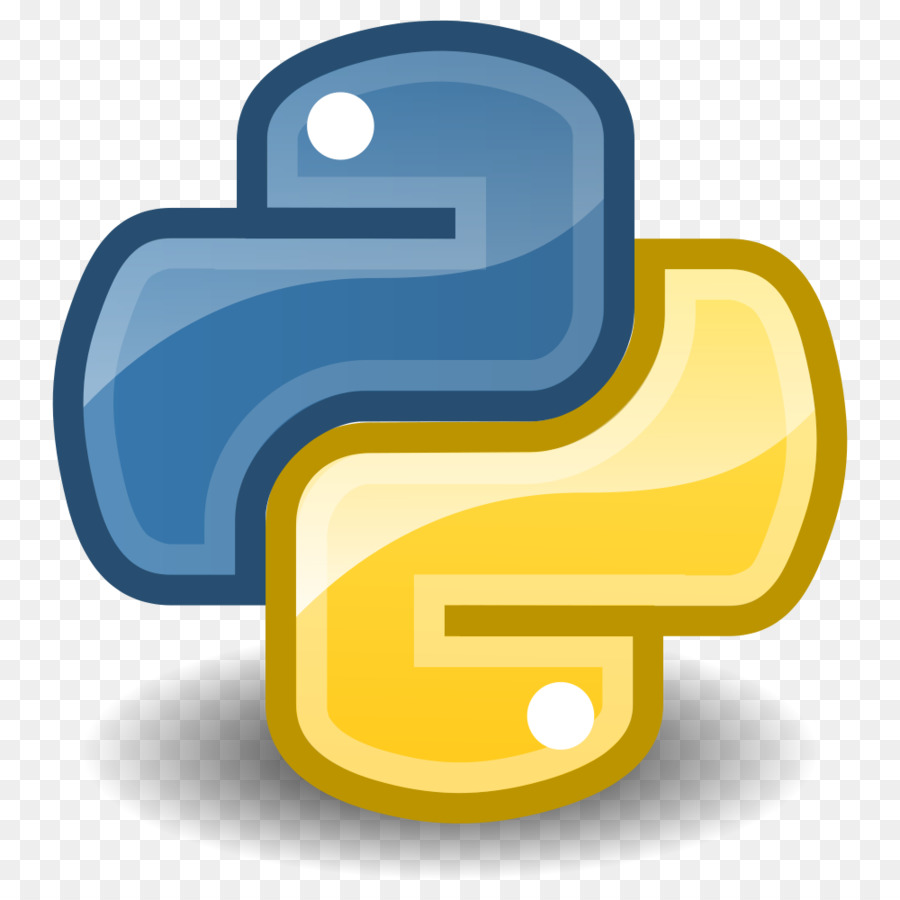
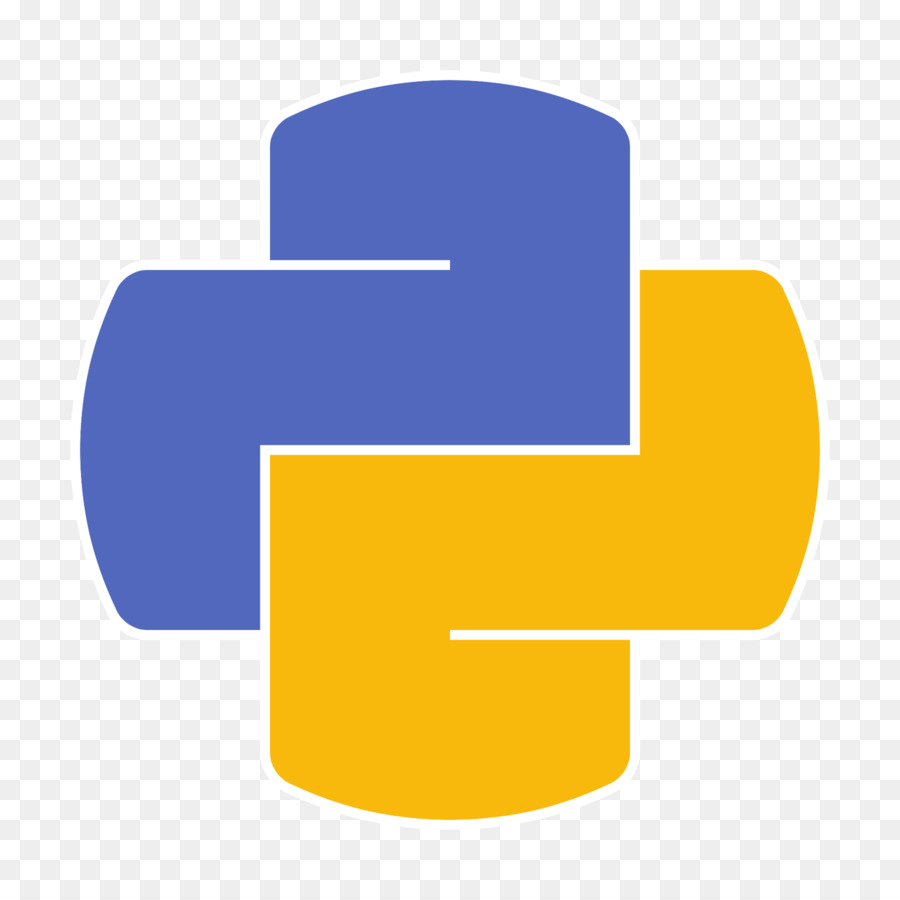
python skills edit

diff --git a/src/assets/index.js b/src/assets/index.js
@@ -18,7 +18,7 @@ import mysql from "./tech/mysql.png";
 import linux from "./tech/linux.png";
 import tailwind from "./tech/tailwind.png";
 import aws from "./tech/aws.png";
-import python from "./tech/python.jpg"
+import python from "./tech/python.png"
 import cplusplus from "./tech/c++.svg"
 import typescript from "./tech/typescript.png"
 import node_js from "./tech/node_js.svg"
@@ -32,6 +32,7 @@ import mackenziehealth from "./company/mackenziehealth.png"
 import privcurity from "./company/privcurity.jpg"
 import google from "./company/google.png"
 import freecodecamp from "./company/freecodecamp.png"
+import whmis from "./company/whmis.png"
 
 import nextinnovation from "./company/nextinnovation.jpeg";
 import cognizant from "./company/cognizant.png";
@@ -74,6 +75,7 @@ export {
   privcurity,
   google,
   freecodecamp,
+  whmis,
   nextinnovation,
   cognizant,
   internshala,

diff --git a/src/constants/index.js b/src/constants/index.js
@@ -21,7 +21,7 @@ import {
   mackenziehealth,
   privcurity,
   google,
-  freecodecamp,
+  whmis,
   nextinnovation,
   cognizant,
   internshala,
@@ -243,7 +243,7 @@ const extracurricular = [
   {
     title: "WHMIS (Worker Health and Safety)",
     type: "Government Workforce Requirement",
-    icon: karate,
+    icon: whmis,
     iconBg: "#CCCFD8",
     date: "Sep 2020",
     points: ["Hazard Awareness, Legal Compliance, Personal Protection, Accident Prevention"],
